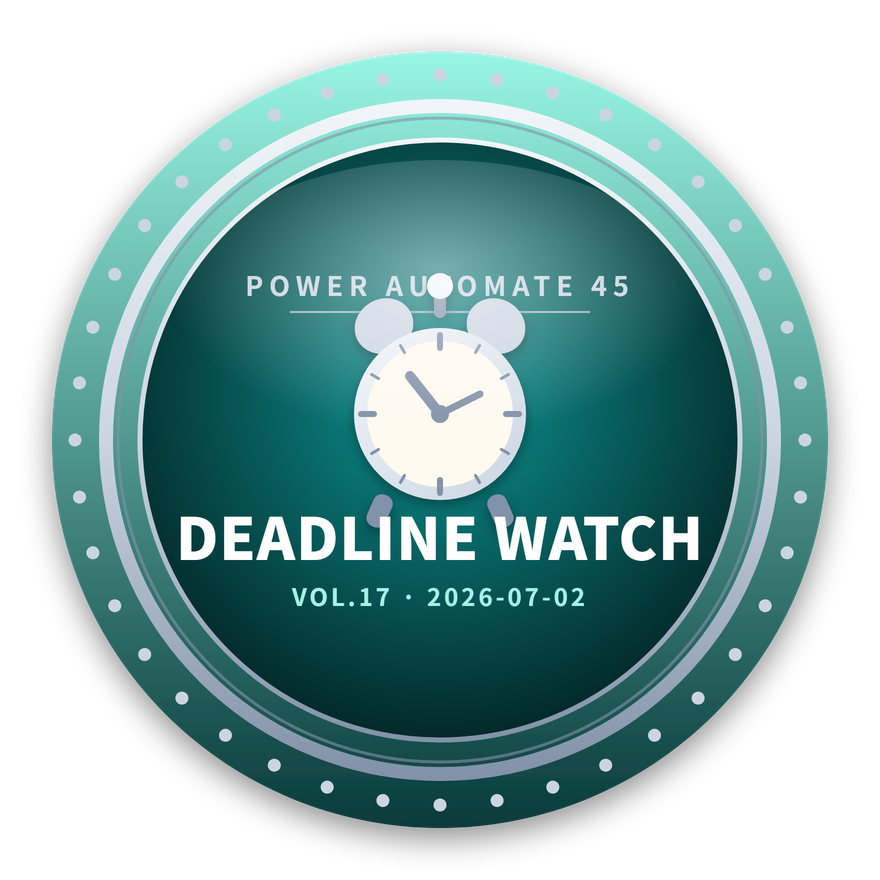
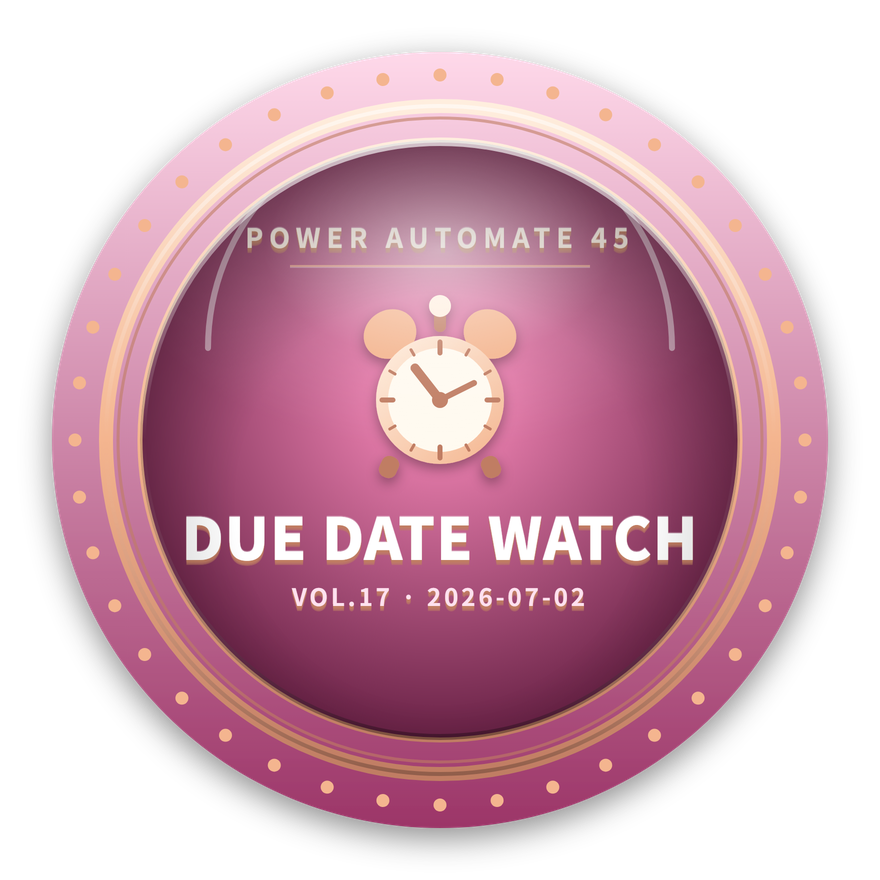
第17回 参加バッジ送信（アンケート回答者6名）＋バッジ刷新
- make-badge-svg.py: Vol.17をローズピンク×ローズゴールドのかわいい配色に（PALETTE_OVERRIDE）、文字を3D立体化(text3d)、光沢ドーム/内周ベベル追加、時計を縮小・下げてブランド文字との重なり解消
- send-badges.py: THEMES_JP に17「期限の見張り番」追加（Xシェア文用）
- session-017 バッジ画像更新、6名へ送信完了・badge-sent/session-017.json 記録（次回リンク=第18回399388）

diff --git a/scripts/make-badge-svg.py b/scripts/make-badge-svg.py
@@ -40,11 +40,22 @@ PALETTES = [
 SESSIONS = {
     15: ("Folder Watch Mail", "2026-06-18", "foldermail"),
     16: ("Copilot Assist", "2026-06-25", "copilot"),
-    17: ("Deadline Watch", "2026-07-02", "deadline"),
+    17: ("Due Date Watch", "2026-07-02", "deadline"),
+}
+
+
+# 回ごとの特別パレット（自動巡回より優先・「かわいい」指定などに対応）
+ROSEGOLD = ("#ffeede", "#f4b58f", "#c07d63")  # rose gold: light, mid, dark
+PALETTE_OVERRIDE = {
+    # Vol.17：かわいいローズピンク × ローズゴールド
+    17: dict(ring=("#ffd9ea", "#9c3568"), disc=("#ff8fc0", "#5e1a3d"),
+             gold=ROSEGOLD, title="#ffffff", sub="#ffe1ef"),
 }
 
 
 def palette_for(vol):
+    if vol in PALETTE_OVERRIDE:
+        return PALETTE_OVERRIDE[vol]
     return DEFAULT_PAL if vol < 14 else PALETTES[(vol - 14) % len(PALETTES)]
 
 
@@ -92,34 +103,34 @@ def icon_copilot(g):
 def icon_deadline(g):
     """期限の見張り番 = 目覚まし時計（締切を見張る）。金のベル＋文字盤＋針。"""
     gl, gm, gd = g
-    cx, cy, r = 440, 414, 86
+    cx, cy, r = 440, 400, 64
     ticks = ""
     for i in range(12):
         a = -math.pi / 2 + i * math.pi / 6
-        ro, ri = r - 7, (r - 20 if i % 3 == 0 else r - 15)
-        w = 6 if i % 3 == 0 else 3
+        ro, ri = r - 6, (r - 17 if i % 3 == 0 else r - 12)
+        w = 5 if i % 3 == 0 else 3
         ticks += (f'<line x1="{cx+ro*math.cos(a):.1f}" y1="{cy+ro*math.sin(a):.1f}" '
                   f'x2="{cx+ri*math.cos(a):.1f}" y2="{cy+ri*math.sin(a):.1f}" '
                   f'stroke="{gd}" stroke-width="{w}" stroke-linecap="round"/>')
     return f'''
   <g filter="url(#ishadow)">
     <!-- 脚 -->
-    <rect x="{cx-70}" y="{cy+r-6}" width="20" height="34" rx="9" fill="{gd}" transform="rotate(24 {cx-60} {cy+r+10})"/>
-    <rect x="{cx+50}" y="{cy+r-6}" width="20" height="34" rx="9" fill="{gd}" transform="rotate(-24 {cx+60} {cy+r+10})"/>
+    <rect x="{cx-60}" y="{cy+r-8}" width="18" height="22" rx="8" fill="{gd}" transform="rotate(24 {cx-51} {cy+r+3})"/>
+    <rect x="{cx+42}" y="{cy+r-8}" width="18" height="22" rx="8" fill="{gd}" transform="rotate(-24 {cx+51} {cy+r+3})"/>
     <!-- ベル（左右） -->
-    <ellipse cx="{cx-56}" cy="{cy-r-2}" rx="30" ry="27" fill="{gm}" transform="rotate(-30 {cx-56} {cy-r-2})"/>
-    <ellipse cx="{cx+56}" cy="{cy-r-2}" rx="30" ry="27" fill="{gm}" transform="rotate(30 {cx+56} {cy-r-2})"/>
+    <ellipse cx="{cx-50}" cy="{cy-r-2}" rx="27" ry="24" fill="{gm}" transform="rotate(-30 {cx-50} {cy-r-2})"/>
+    <ellipse cx="{cx+50}" cy="{cy-r-2}" rx="27" ry="24" fill="{gm}" transform="rotate(30 {cx+50} {cy-r-2})"/>
     <!-- 打棒 -->
-    <rect x="{cx-6}" y="{cy-r-40}" width="12" height="30" rx="6" fill="{gd}"/>
-    <circle cx="{cx}" cy="{cy-r-42}" r="13" fill="{gl}"/>
+    <rect x="{cx-6}" y="{cy-r-28}" width="12" height="24" rx="6" fill="{gd}"/>
+    <circle cx="{cx}" cy="{cy-r-30}" r="11" fill="{gl}"/>
     <!-- 文字盤 -->
     <circle cx="{cx}" cy="{cy}" r="{r}" fill="url(#sparkgrad)"/>
-    <circle cx="{cx}" cy="{cy}" r="{r-13}" fill="#fffaf0"/>
+    <circle cx="{cx}" cy="{cy}" r="{r-12}" fill="#fffaf0"/>
     {ticks}
     <!-- 針（締切間近＝10:08あたり） -->
-    <line x1="{cx}" y1="{cy}" x2="{cx-30}" y2="{cy-38}" stroke="{gd}" stroke-width="10" stroke-linecap="round"/>
-    <line x1="{cx}" y1="{cy}" x2="{cx+40}" y2="{cy-20}" stroke="{gd}" stroke-width="7" stroke-linecap="round"/>
-    <circle cx="{cx}" cy="{cy}" r="9" fill="{gd}"/>
+    <line x1="{cx}" y1="{cy}" x2="{cx-25}" y2="{cy-32}" stroke="{gd}" stroke-width="9" stroke-linecap="round"/>
+    <line x1="{cx}" y1="{cy}" x2="{cx+34}" y2="{cy-17}" stroke="{gd}" stroke-width="6" stroke-linecap="round"/>
+    <circle cx="{cx}" cy="{cy}" r="8" fill="{gd}"/>
   </g>'''
 
 
@@ -133,6 +144,22 @@ def knurl_dots(cx, cy, r, n, color):
         x, y = cx + r * math.cos(a), cy + r * math.sin(a)
         out.append(f'<circle cx="{x:.1f}" cy="{y:.1f}" r="6.5" fill="{color}"/>')
     return "\n".join(out)
+
+
+def text3d(cx, y, size, ls, fill, depth, weight, s, sheen=True):
+    """立体（浮き上がり）テキスト：暗い層を下に数枚重ねて押し出し感＋上に光沢ハイライト。"""
+    fam = "'Noto Sans JP','Segoe UI',sans-serif"
+    base = (f'font-family="{fam}" font-weight="{weight}" '
+            f'font-size="{size}" letter-spacing="{ls}" text-anchor="middle"')
+    layers = ""
+    for d in range(5, 0, -1):
+        op = 0.9 if d <= 2 else 0.5
+        layers += (f'<text x="{cx}" y="{y + d}" fill="{depth}" fill-opacity="{op}" {base}>{s}</text>')
+    # 上端の白ハイライト（ガラス光沢）
+    hi = (f'<text x="{cx}" y="{y - 1.2}" fill="#ffffff" fill-opacity="0.30" {base}>{s}</text>'
+          if sheen else "")
+    top = f'<text x="{cx}" y="{y}" fill="{fill}" {base}>{s}</text>'
+    return layers + top + hi
 
 
 def build_svg(vol, theme, date, key, pal):
@@ -174,10 +201,20 @@ def build_svg(vol, theme, date, key, pal):
       <stop offset="0" stop-color="{gl}"/>
       <stop offset="1" stop-color="{gm}"/>
     </linearGradient>
-    <radialGradient id="gloss" cx="0.5" cy="0.32" r="0.5">
-      <stop offset="0" stop-color="#ffffff" stop-opacity="0.45"/>
+    <radialGradient id="gloss" cx="0.5" cy="0.30" r="0.56">
+      <stop offset="0" stop-color="#ffffff" stop-opacity="0.60"/>
+      <stop offset="0.55" stop-color="#ffffff" stop-opacity="0.10"/>
       <stop offset="1" stop-color="#ffffff" stop-opacity="0"/>
     </radialGradient>
+    <radialGradient id="vign" cx="0.5" cy="0.60" r="0.62">
+      <stop offset="0.55" stop-color="#000000" stop-opacity="0"/>
+      <stop offset="1" stop-color="#000000" stop-opacity="0.30"/>
+    </radialGradient>
+    <linearGradient id="bevel" x1="0" y1="0" x2="0" y2="1">
+      <stop offset="0" stop-color="#ffffff" stop-opacity="0.75"/>
+      <stop offset="0.5" stop-color="#ffffff" stop-opacity="0"/>
+      <stop offset="1" stop-color="#000000" stop-opacity="0.35"/>
+    </linearGradient>
     <filter id="dshadow" x="-20%" y="-20%" width="140%" height="140%">
       <feDropShadow dx="0" dy="10" stdDeviation="16" flood-color="#000" flood-opacity="0.45"/>
     </filter>
@@ -198,28 +235,29 @@ def build_svg(vol, theme, date, key, pal):
   <circle cx="{cx}" cy="{cy}" r="{ID}" fill="url(#discgrad)"/>
   <circle cx="{cx}" cy="{cy}" r="{ID}" fill="none" stroke="url(#goldrim)" stroke-width="5"/>
 
-  <!-- ブランド -->
-  <text x="{cx}" y="296" text-anchor="middle" fill="{gm}"
-        font-family="'Noto Sans JP','Segoe UI',sans-serif" font-weight="700"
-        font-size="27" letter-spacing="6">POWER AUTOMATE 45</text>
-  <line x1="{cx-150}" y1="312" x2="{cx+150}" y2="312" stroke="{gm}" stroke-width="2" opacity="0.7"/>
+  <!-- ブランド（立体） -->
+  {text3d(cx, 248, 27, 6, gl, gd, 700, "POWER AUTOMATE 45")}
+  <line x1="{cx-150}" y1="266" x2="{cx+150}" y2="266" stroke="{gm}" stroke-width="2" opacity="0.7"/>
+  <line x1="{cx-150}" y1="267.4" x2="{cx+150}" y2="267.4" stroke="#ffffff" stroke-width="1" opacity="0.35"/>
 
   <!-- アイコン -->
   {icon_svg}
 
-  <!-- テーマ名 -->
-  <text x="{cx}" y="560" text-anchor="middle" fill="{pal['title']}"
-        font-family="'Noto Sans JP','Segoe UI',sans-serif" font-weight="800"
-        font-size="{tsize}" letter-spacing="1">{title}</text>
-  <!-- VOL・日付 -->
-  <text x="{cx}" y="606" text-anchor="middle" fill="{pal['sub']}"
-        font-family="'Noto Sans JP','Segoe UI',sans-serif" font-weight="600"
-        font-size="24" letter-spacing="3">VOL.{vol} · {date}</text>
+  <!-- テーマ名（立体） -->
+  {text3d(cx, 560, tsize, 1, pal['title'], gd, 800, title)}
+  <!-- VOL・日付（立体） -->
+  {text3d(cx, 606, 24, 3, pal['sub'], gd, 600, f"VOL.{vol} · {date}", sheen=False)}
 
-  <!-- 光沢（上半分） -->
+  <!-- 光沢・立体（上半分ハイライト＋下部の陰影＋内周ベベル） -->
   <g clip-path="url(#discclip)">
-    <ellipse cx="{cx}" cy="{cy-110}" rx="280" ry="170" fill="url(#gloss)"/>
+    <ellipse cx="{cx}" cy="{cy-118}" rx="285" ry="180" fill="url(#gloss)"/>
+    <path d="M {cx-232} {cy-92} A 232 232 0 0 1 {cx+232} {cy-92}"
+          fill="none" stroke="#ffffff" stroke-width="6" stroke-linecap="round" opacity="0.5"/>
+    <circle cx="{cx}" cy="{cy}" r="{ID}" fill="url(#vign)"/>
   </g>
+  <!-- 内周ベベルリング（金属の縁の立体感） -->
+  <circle cx="{cx}" cy="{cy}" r="{ID-3}" fill="none" stroke="url(#bevel)" stroke-width="6" opacity="0.9"/>
+  <circle cx="{cx}" cy="{cy}" r="{rim}" fill="none" stroke="url(#bevel)" stroke-width="4" opacity="0.7"/>
 </svg>'''
 
 

diff --git a/scripts/send-badges.py b/scripts/send-badges.py
@@ -275,7 +275,7 @@ def send_email(to_email: str, session_num: int, badge_path: Path):
         8: "承認フロー（Approvals）", 9: "SharePoint更新をTeams通知", 10: "総復習回",
         11: "失敗しないフロー設計", 12: "式アレルギー卒業", 13: "Try-Catch",
         14: "JSONの読み方", 15: "共有フォルダ監視→自動メール通知",
-        16: "Copilotと作るPower Automate",
+        16: "Copilotと作るPower Automate", 17: "期限の見張り番",
     }
     theme = THEMES_JP.get(session_num)
     theme_part = f"『{theme}』" if theme else ""
